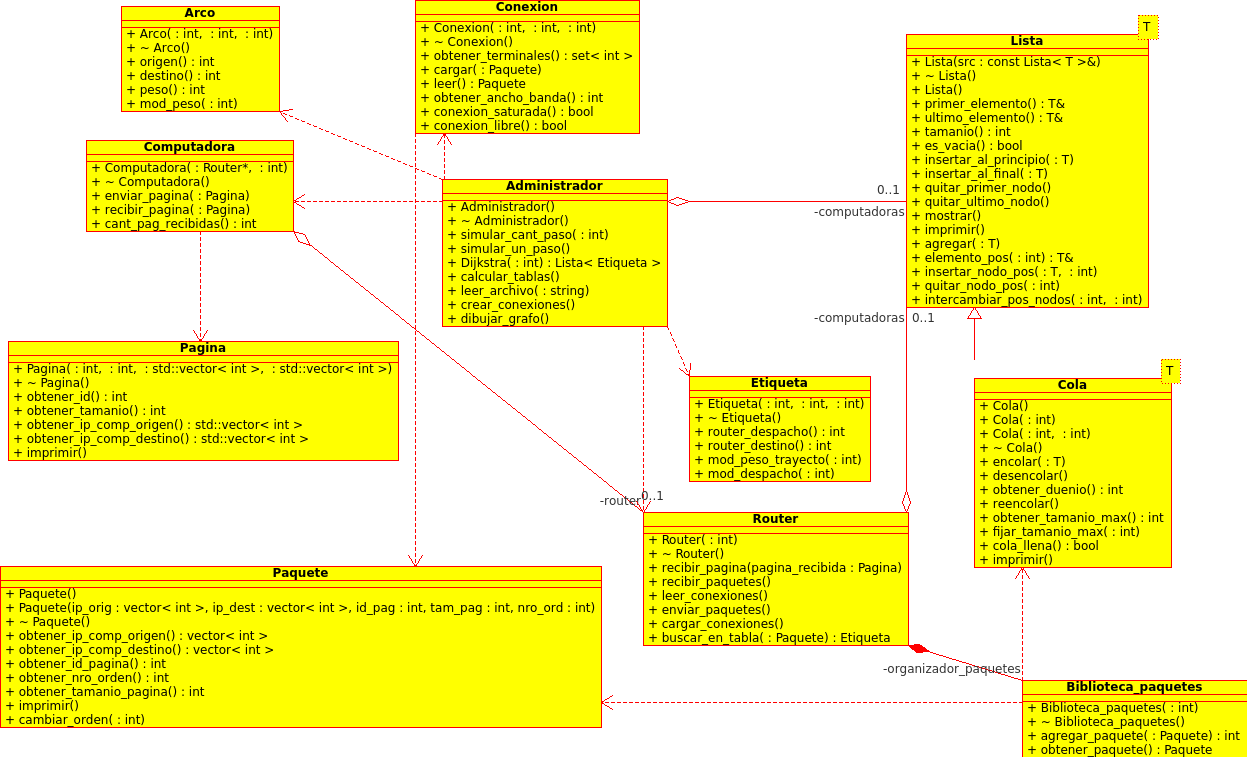
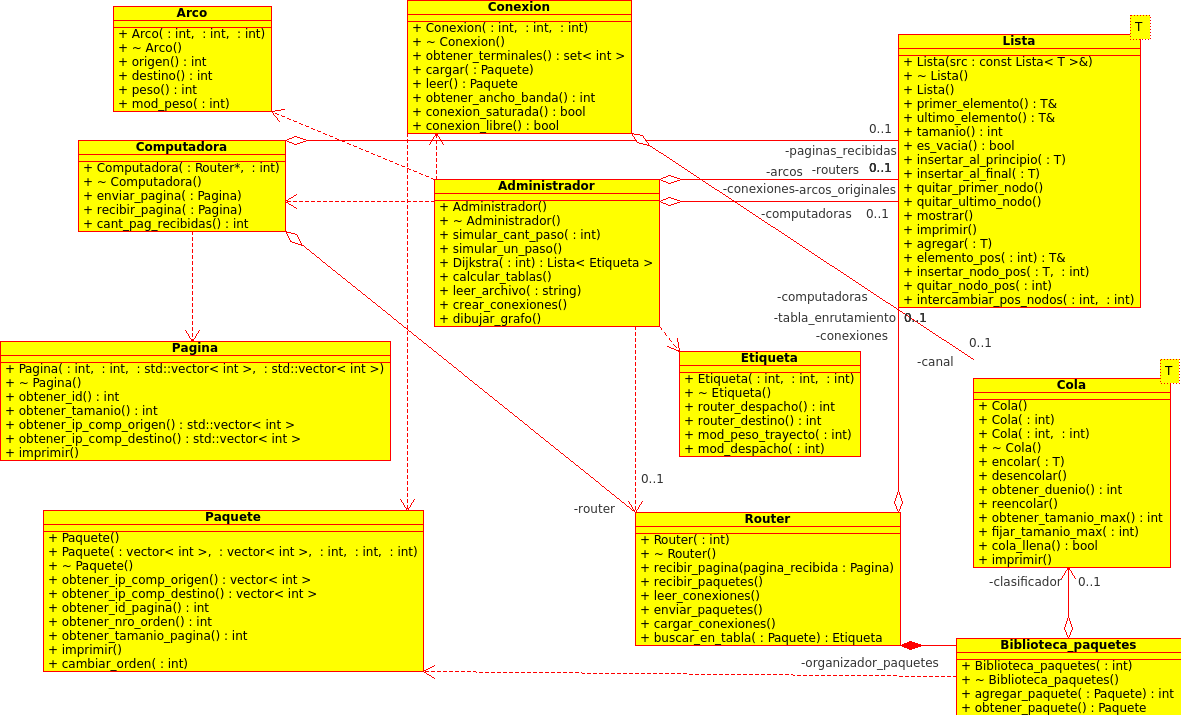
Se actualizó el diagrama de clases realizado por importación de headers en UMBRELLO

diff --git a/Paquete.h b/Paquete.h
@@ -16,7 +16,7 @@ class Paquete
 		
 	public:		
 		Paquete();
-		Paquete(vector<int> ip_comp_origen, vector<int> ip_comp_destino, int id_pagina, int tamanio_pagina, int nro_orden);
+		Paquete(vector<int>, vector<int>, int, int, int);
 		~Paquete();
 		vector<int> obtener_ip_comp_origen();
 		vector<int> obtener_ip_comp_destino();
